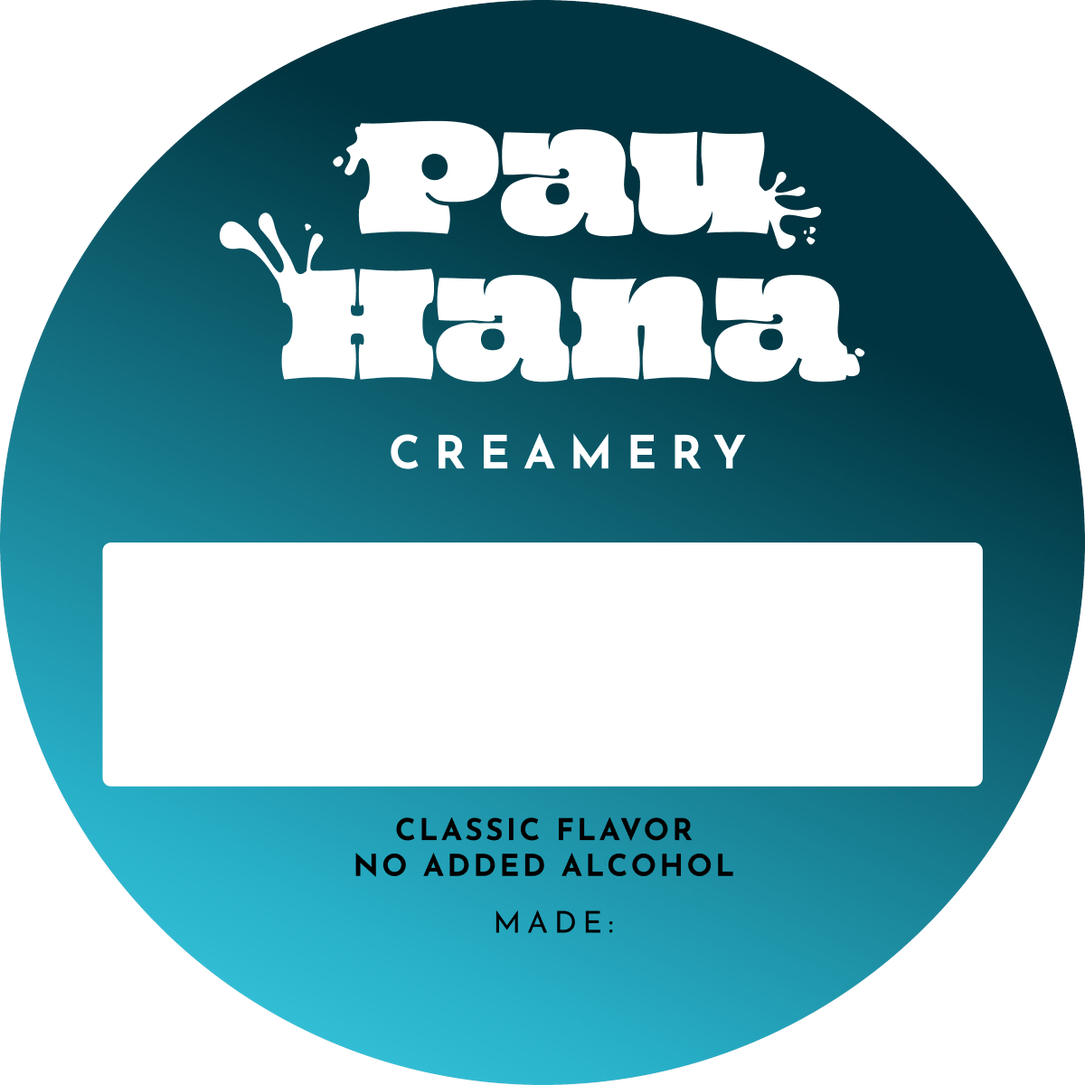
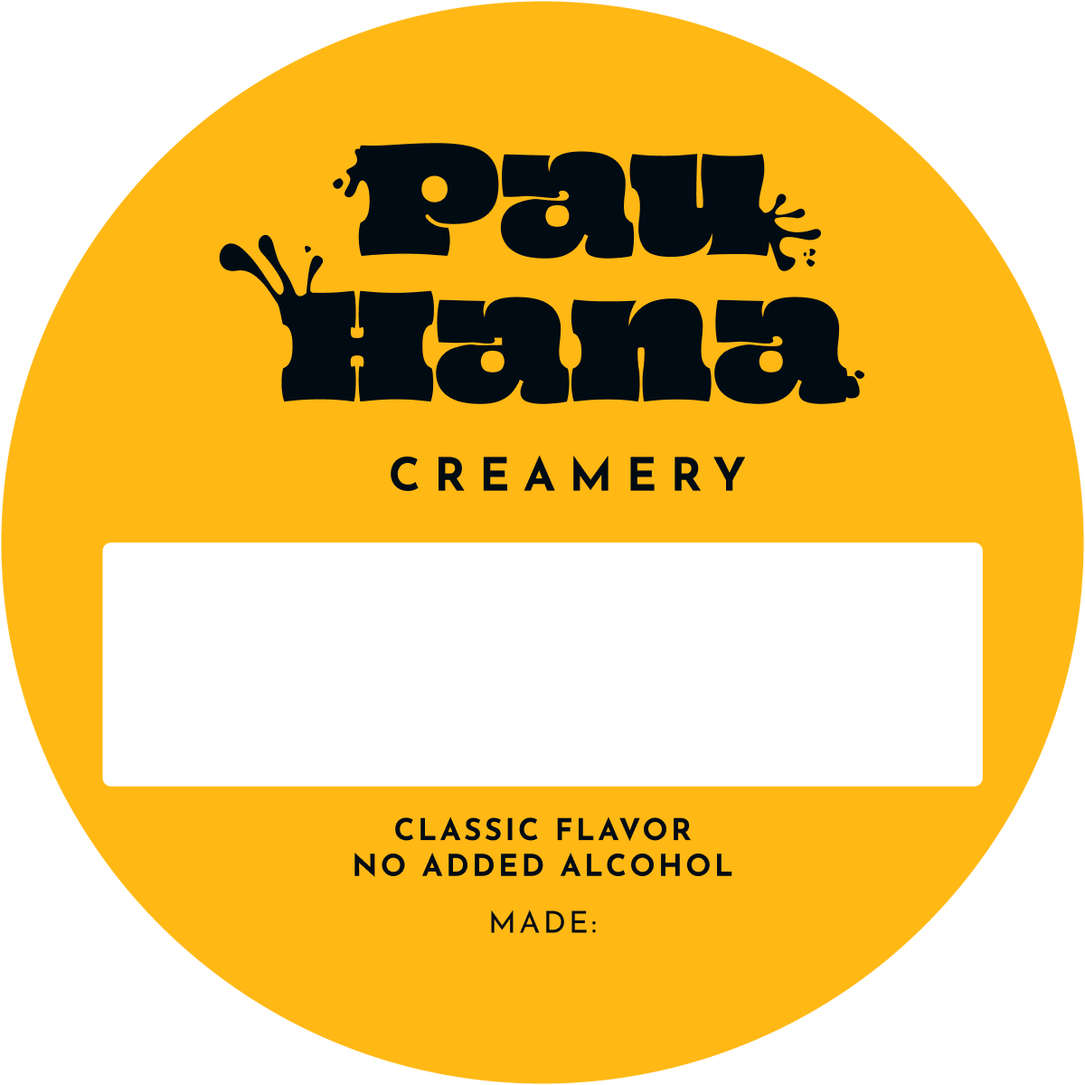
Update styleguide to v1.4 with button patterns and refreshed label assets.

diff --git a/styleguide/index.html b/styleguide/index.html
@@ -21,6 +21,7 @@
       <a href="#color">Color</a>
       <a href="#type">Type</a>
       <a href="#layout">Layout</a>
+      <a href="#buttons">Buttons</a>
       <a href="#labels">Labels</a>
       <a href="#voice">Voice</a>
     </nav>
@@ -30,7 +31,7 @@
     <!-- Cover -->
     <section class="cover" id="top">
       <div class="cover__text">
-        <p class="eyebrow">Style guide, v1.2</p>
+        <p class="eyebrow">Style guide, v1.4</p>
         <h1 class="cover__name"><span class="sr-only">Pau Hana Creamery</span><img src="assets/pau-hana-logo-black.png" alt="" width="1600" height="875"></h1>
         <p class="cover__tag">Handcrafted island ice cream, spiked or classic.</p>
         <p class="cover__sub">Based on Oahu. "Pau hana" is the local phrase for the moment work is done and it is time to unwind. Backup line: <em>Unwind by the scoop.</em></p>
@@ -85,7 +86,7 @@
         </div>
         <div class="rule">
           <h3>Backgrounds</h3>
-          <p>Black logo on sea foam white, scoop yellow, coral blue and sunrise orange (5.9 to 1). White logo on ink, dark sea blue and the two label gradients. Avoid the white logo on flat sunrise orange (3.3 to 1), scoop yellow and coral blue.</p>
+          <p>Black logo on sea foam white, scoop yellow, coral blue and sunrise orange (5.9 to 1). White logo on ink and dark sea blue. Avoid the white logo on flat sunrise orange (3.3 to 1), scoop yellow and coral blue.</p>
         </div>
       </div>
     </section>
@@ -95,31 +96,10 @@
       <header class="section__head">
         <p class="eyebrow">02</p>
         <h2>Color</h2>
-        <p class="lede">Five brand colors plus ink, and two gradients that mark the flavor line on labels. Lead with scoop yellow and ink. Use sunrise orange, dark sea blue and coral blue as accents. Click a swatch to copy its hex code.</p>
+        <p class="lede">Five brand colors plus ink. Lead with scoop yellow and ink. Use sunrise orange, dark sea blue and coral blue as accents. Click a swatch to copy its hex code.</p>
       </header>
 
       <div class="swatches" id="swatches"></div>
-
-      <h3 class="sub">Label gradients</h3>
-      <p class="meta meta--wide">Two diagonal gradients carry the flavor line. Each runs from the top right corner to the lower left, dark to bright. The CSS below is written for a square element, so a round label or icon matches the Figma art. Click a card to copy it.</p>
-      <div class="gradients">
-        <button type="button" class="gradcard" data-copy="linear-gradient(205.3deg, #003440 27.6%, #28B0C8 79.2%, #4FE4F9 110.6%)" aria-label="Copy the classic blue gradient CSS">
-          <span class="gradcard__bar gradcard__bar--classic"></span>
-          <span class="gradcard__body">
-            <span class="gradcard__name">Classic blue</span>
-            <span class="gradcard__stops"><code>#003440</code> <code>#28B0C8</code> <code>#4FE4F9</code></span>
-            <span class="gradcard__use">Classic flavors with no added alcohol. Figma style: Pau Hana Blue Gradient 2.</span>
-          </span>
-        </button>
-        <button type="button" class="gradcard" data-copy="linear-gradient(205.3deg, #4A1101 2.7%, #FE4B00 59.5%, #FFB814 101.5%)" aria-label="Copy the spiked orange gradient CSS">
-          <span class="gradcard__bar gradcard__bar--spiked"></span>
-          <span class="gradcard__body">
-            <span class="gradcard__name">Spiked orange</span>
-            <span class="gradcard__stops"><code>#4A1101</code> <code>#FE4B00</code> <code>#FFB814</code></span>
-            <span class="gradcard__use">Spiked flavors with alcohol. Figma style: Pau Hana Orange Gradient 2.</span>
-          </span>
-        </button>
-      </div>
 
       <h3 class="sub">Contrast pairs</h3>
       <div class="table-wrap">
@@ -140,18 +120,19 @@
         </table>
       </div>
 
-      <h3 class="sub">Contrast on the label gradients</h3>
-      <p class="meta meta--wide">Worst case across each text block on the label art, calculated from the gradient stops.</p>
+      <h3 class="sub">Contrast on the labels and icons</h3>
+      <p class="meta meta--wide">The pint labels and social icons use flat fields, so each pair is a single value.</p>
       <div class="table-wrap">
         <table class="table">
           <thead><tr><th scope="col">Pair</th><th scope="col">Contrast</th><th scope="col">OK for</th></tr></thead>
           <tbody>
-            <tr><td>White wordmark on classic blue</td><td>6.8 to 1 or better</td><td class="ok">All text</td></tr>
-            <tr><td>White CREAMERY on classic blue</td><td>6.1 to 1 or better</td><td class="ok">All text</td></tr>
-            <tr><td>Ink statement and MADE line on classic blue</td><td>4.6 to 1 or better</td><td class="ok">All text</td></tr>
-            <tr><td>White wordmark on spiked orange</td><td>4.4 to 1 or better</td><td class="warn">Large type only. The wordmark qualifies.</td></tr>
-            <tr><td>White CREAMERY on spiked orange</td><td>4.1 to 1 or better</td><td class="warn">Borderline. Keep it at least this size and bold.</td></tr>
-            <tr><td>Ink statement and MADE line on spiked orange</td><td>5.6 to 1 or better</td><td class="ok">All text</td></tr>
+            <tr><td>Ink logo, CREAMERY and statements on scoop yellow (classic)</td><td>11.4 to 1</td><td class="ok">All text</td></tr>
+            <tr><td>White logo and CREAMERY on ink (spiked)</td><td>19.1 to 1</td><td class="ok">All text</td></tr>
+            <tr><td>Sea foam white statement and MADE: on ink (spiked)</td><td>19.1 to 1</td><td class="ok">All text</td></tr>
+            <tr><td>White 21+ on the sunrise orange pill</td><td>3.4 to 1</td><td class="warn">Large type only. The 21+ is about 11.6pt bold.</td></tr>
+            <tr><td>Sunrise orange pill against the ink field</td><td>5.9 to 1</td><td class="ok">Clear shape edge</td></tr>
+            <tr><td>Ink logo and CREAMERY on coral blue (classic icon)</td><td>13.0 to 1</td><td class="ok">All text</td></tr>
+            <tr><td>Scoop yellow logo and white CREAMERY on ink (spiked icon)</td><td>11.4 to 1 and 19.1 to 1</td><td class="ok">All text</td></tr>
           </tbody>
         </table>
       </div>
@@ -186,7 +167,7 @@
         <article class="card card--pad">
           <p class="eyebrow">Everything else</p>
           <p class="specimen specimen--sans">Josefin Sans</p>
-          <p class="meta">Weights 400, 500, 600, 700. Labels use Bold and Regular. Tracking is 0.1em everywhere, for capitals and normal case alike.</p>
+          <p class="meta">Weights 400, 500, 600, 700. Labels use Bold and Regular. Tracking is 0.1em everywhere, for capitals and normal case alike. The one exception is the CREAMERY wordmark under the logo, which keeps its own wide tracking (0.3em on the artwork). Leave it as drawn.</p>
         </article>
         <article class="card card--pad">
           <p class="eyebrow">Display only</p>
@@ -201,10 +182,11 @@
         <table class="table">
           <thead><tr><th scope="col">Element</th><th scope="col">Weight</th><th scope="col">Size</th><th scope="col">Letter spacing</th><th scope="col">Color</th></tr></thead>
           <tbody>
-            <tr><td>CREAMERY</td><td>Bold</td><td>10.6pt</td><td>0.1em</td><td>White</td></tr>
+            <tr><td>CREAMERY (wordmark exception)</td><td>Bold</td><td>10.6pt</td><td>0.3em, separate from every other style</td><td>Ink on classic, white on spiked</td></tr>
             <tr><td>Classic statement</td><td>Bold</td><td>7pt</td><td>0.1em</td><td>Ink</td></tr>
-            <tr><td>Spiked statement</td><td>Bold</td><td>7pt</td><td>0.1em</td><td>Ink</td></tr>
-            <tr><td>MADE:</td><td>Regular</td><td>7pt</td><td>0.1em</td><td>Ink</td></tr>
+            <tr><td>Spiked statement</td><td>Bold</td><td>7pt</td><td>0.1em</td><td>Sea foam white</td></tr>
+            <tr><td>MADE:</td><td>Regular</td><td>7pt</td><td>0.1em</td><td>Ink on classic, sea foam white on spiked</td></tr>
+            <tr><td>21+ pill</td><td>Bold</td><td>11.6pt</td><td>0.1em</td><td>White on sunrise orange</td></tr>
           </tbody>
         </table>
       </div>
@@ -221,7 +203,7 @@
 
       <h3 class="sub">Try it</h3>
       <div class="tester">
-        <label for="tester-input">Type a flavor name</label>
+        <label for="tester-input">Type a headline</label>
         <input id="tester-input" type="text" value="Tequila Orange Creamsicle" maxlength="48" autocomplete="off">
         <p class="tester__out tester__out--oi" id="tester-oi" aria-label="Preview in Oi">Tequila Orange Creamsicle</p>
         <p class="tester__note" id="tester-note"></p>
@@ -229,7 +211,7 @@
 
       <h3 class="sub">Display type rules (Oi)</h3>
       <div class="rules rules--2">
-        <div class="rule"><h3>Use it for</h3><p>Flavor names and big section titles at 36px or larger, no more than two lines.</p></div>
+        <div class="rule"><h3>Use it for</h3><p>Big headlines at 36px or larger on the website, menus and signage, no more than two lines. Not on pint labels: flavor names there are handwritten.</p></div>
         <div class="rule"><h3>Do not use it for</h3><p>Body text, labels, prices, ingredients, allergen notes and above all the alcohol and 21+ notices. Those stay in Josefin Sans.</p></div>
         <div class="rule"><h3>Never set "Pau Hana" in it</h3><p>Next to the modified wordmark, stock Oi reads as a slightly wrong copy. Always use the logo artwork.</p></div>
         <div class="rule"><h3>One weight only</h3><p>On the web, self-host the font file and never let the browser fake a bolder one. Use it sparingly, or the wordmark stops being special.</p></div>
@@ -263,22 +245,91 @@
       </div>
     </section>
 
-    <!-- Labels -->
-    <section class="section" id="labels">
+    <!-- Buttons -->
+    <section class="section" id="buttons">
       <header class="section__head">
         <p class="eyebrow">05</p>
+        <h2>Buttons</h2>
+        <p class="lede">Three buttons: primary for the one main action, secondary for a supporting action, and cancel for backing out. All three are pill shaped, bold capitals at 0.1em, and at least 48px tall so they are easy to tap.</p>
+      </header>
+
+      <h3 class="sub">States</h3>
+      <p class="meta meta--wide">Every button has default, hover, pressed, disabled and keyboard focus states. The grid forces each state so you can see them side by side. Hover and press the live buttons below to see the real thing.</p>
+      <div class="table-wrap">
+        <div class="btn-grid" role="table" aria-label="Button states">
+          <div class="btn-grid__head" role="row"><span role="columnheader"></span><span role="columnheader">Default</span><span role="columnheader">Hover</span><span role="columnheader">Pressed</span><span role="columnheader">Disabled</span><span role="columnheader">Focus</span></div>
+          <div class="btn-grid__row" role="row"><span class="btn-grid__label" role="rowheader">Primary</span>
+            <span role="cell"><button type="button" class="btn btn--primary">Order</button></span>
+            <span role="cell"><button type="button" class="btn btn--primary is-hover" tabindex="-1">Order</button></span>
+            <span role="cell"><button type="button" class="btn btn--primary is-active" tabindex="-1">Order</button></span>
+            <span role="cell"><button type="button" class="btn btn--primary" disabled>Order</button></span>
+            <span role="cell"><button type="button" class="btn btn--primary is-focus" tabindex="-1">Order</button></span></div>
+          <div class="btn-grid__row" role="row"><span class="btn-grid__label" role="rowheader">Secondary</span>
+            <span role="cell"><button type="button" class="btn btn--secondary">Details</button></span>
+            <span role="cell"><button type="button" class="btn btn--secondary is-hover" tabindex="-1">Details</button></span>
+            <span role="cell"><button type="button" class="btn btn--secondary is-active" tabindex="-1">Details</button></span>
+            <span role="cell"><button type="button" class="btn btn--secondary" disabled>Details</button></span>
+            <span role="cell"><button type="button" class="btn btn--secondary is-focus" tabindex="-1">Details</button></span></div>
+          <div class="btn-grid__row" role="row"><span class="btn-grid__label" role="rowheader">Cancel</span>
+            <span role="cell"><button type="button" class="btn btn--cancel">Cancel</button></span>
+            <span role="cell"><button type="button" class="btn btn--cancel is-hover" tabindex="-1">Cancel</button></span>
+            <span role="cell"><button type="button" class="btn btn--cancel is-active" tabindex="-1">Cancel</button></span>
+            <span role="cell"><button type="button" class="btn btn--cancel" disabled>Cancel</button></span>
+            <span role="cell"><button type="button" class="btn btn--cancel is-focus" tabindex="-1">Cancel</button></span></div>
+        </div>
+      </div>
+
+      <h3 class="sub">Try them</h3>
+      <div class="btn-demo">
+        <button type="button" class="btn btn--primary" data-demo="Primary clicked">Order a pint</button>
+        <button type="button" class="btn btn--secondary" data-demo="Secondary clicked">See flavors</button>
+        <button type="button" class="btn btn--cancel" data-demo="Cancel clicked">Cancel</button>
+        <button type="button" class="btn btn--primary" disabled>Sold out</button>
+      </div>
+
+      <div class="rules">
+        <div class="rule"><h3>Primary</h3><p>Scoop yellow with ink text. One per screen or card. Hover flips it to ink with yellow text. Pressed turns it sunrise orange.</p></div>
+        <div class="rule"><h3>Secondary</h3><p>Ink outline, no fill. Hover fills it coral blue. Pressed fills it dark sea blue with sea foam white text.</p></div>
+        <div class="rule"><h3>Cancel</h3><p>Plain ink text with no outline, the quietest of the three. Hover and pressed add a light ink tint. It is never red; the brand has no red.</p></div>
+        <div class="rule"><h3>Disabled</h3><p>Faded to about 40 percent, no hover, not clickable, with a not-allowed cursor. Say why in nearby text, such as "Sold out", so color is never the only clue.</p></div>
+        <div class="rule"><h3>Focus</h3><p>A 3px dark sea blue ring with a 2px gap on every button, for keyboard users. Never remove it.</p></div>
+        <div class="rule"><h3>Use on light backgrounds</h3><p>These are built for sea foam white and scoop yellow pages. On an ink background, set the label to sea foam white and ask for an inverse version first.</p></div>
+      </div>
+
+      <h3 class="sub">Contrast</h3>
+      <div class="table-wrap">
+        <table class="table">
+          <thead><tr><th scope="col">State</th><th scope="col">Pair</th><th scope="col">Contrast</th><th scope="col">OK for</th></tr></thead>
+          <tbody>
+            <tr><td>Primary default</td><td>Ink on scoop yellow</td><td>11.4 to 1</td><td class="ok">All text</td></tr>
+            <tr><td>Primary hover</td><td>Scoop yellow on ink</td><td>11.4 to 1</td><td class="ok">All text</td></tr>
+            <tr><td>Primary pressed</td><td>Ink on sunrise orange</td><td>5.9 to 1</td><td class="ok">All text</td></tr>
+            <tr><td>Secondary default</td><td>Ink on sea foam white</td><td>19.1 to 1</td><td class="ok">All text</td></tr>
+            <tr><td>Secondary hover</td><td>Ink on coral blue</td><td>13.0 to 1</td><td class="ok">All text</td></tr>
+            <tr><td>Secondary pressed</td><td>Sea foam white on dark sea blue</td><td>4.7 to 1</td><td class="ok">All text</td></tr>
+            <tr><td>Cancel</td><td>Ink on sea foam white, with a light ink tint</td><td>16 to 1 or better</td><td class="ok">All text</td></tr>
+            <tr><td>Disabled</td><td>Ink at 40 percent</td><td>Below 4.5 to 1</td><td class="warn">Inactive controls are exempt; explain in text</td></tr>
+          </tbody>
+        </table>
+      </div>
+    </section>
+
+    <!-- Labels -->
+    <section class="section section--tint" id="labels">
+      <header class="section__head">
+        <p class="eyebrow">06</p>
         <h2>Labels and social</h2>
-        <p class="lede">Each pint gets a 3.5 inch round label. A blue gradient marks a classic flavor and an orange gradient marks a spiked one. A white box stays blank so the flavor can be handwritten after the pint is filled.</p>
+        <p class="lede">Each pint gets a 3.5 inch round label. A flat scoop yellow field marks a classic flavor and a flat ink field marks a spiked one, so a spiked pint stands out in the freezer case. The white box stays blank on purpose. Whoever makes the batch in the commercial kitchen handwrites the flavor name in it when the ice cream is made, so the label works for any flavor while recipes are still experimental. Pre-printed flavor names can come later, once the menu settles.</p>
       </header>
 
       <div class="grid grid--2">
         <figure class="card">
-          <div class="frame frame--grey frame--square"><img class="round" src="assets/label-classic.png" alt="Classic pint label with a blue gradient, white logo, a blank white flavor box, and the text Classic flavor, no added alcohol, above a Made line" loading="lazy"></div>
-          <figcaption><strong>Classic</strong><span>"CLASSIC FLAVOR, NO ADDED ALCOHOL"</span></figcaption>
+          <div class="frame frame--grey frame--square"><img class="round" src="assets/label-classic.png" alt="Classic pint label on scoop yellow with an ink logo, a blank white flavor box, and the text Classic flavor, no added alcohol, above a Made line" loading="lazy"></div>
+          <figcaption><strong>Classic</strong><span>Scoop yellow field. "CLASSIC FLAVOR, NO ADDED ALCOHOL"</span></figcaption>
         </figure>
         <figure class="card">
-          <div class="frame frame--grey frame--square"><img class="round" src="assets/label-spiked.png" alt="Spiked pint label with an orange gradient, white logo, a blank white flavor box, and the text Spiked flavor, 4 to 5 percent ABV, 21 plus only, contains alcohol, above a Made line" loading="lazy"></div>
-          <figcaption><strong>Spiked</strong><span>"SPIKED FLAVOR, 4-5% ABV, 21+ ONLY, CONTAINS ALCOHOL"</span></figcaption>
+          <div class="frame frame--grey frame--square"><img class="round" src="assets/label-spiked.png" alt="Spiked pint label on ink with a white logo, an orange 21 plus pill, a blank white flavor box, the text Spiked flavor, 4 to 5 percent ABV, 21 plus only, contains alcohol, and a Made line with a small white date box" loading="lazy"></div>
+          <figcaption><strong>Spiked</strong><span>Ink field, orange 21+ pill. "SPIKED FLAVOR, 4-5% ABV, 21+ ONLY, CONTAINS ALCOHOL"</span></figcaption>
         </figure>
       </div>
 
@@ -289,15 +340,15 @@
         </div>
         <div class="rule">
           <h3>Material</h3>
-          <p>Waterproof matte film, full color, with a freezer-rated permanent adhesive. Apply to room-temperature lids, because labels stick poorly once the container is cold. Use permanent marker in the flavor box.</p>
+          <p>Waterproof matte film, full color, with a freezer-rated permanent adhesive. Apply to room-temperature lids, because labels stick poorly once the container is cold. Use permanent marker in the flavor box and the date box.</p>
         </div>
         <div class="rule">
           <h3>Layout, top to bottom</h3>
-          <p>Logo, CREAMERY, blank white flavor box, alcohol statement, then a MADE: line. The date is written in by hand, so no space is reserved.</p>
+          <p>Logo, CREAMERY, blank white flavor box (the flavor name is handwritten here, never printed in Oi), alcohol statement, then a MADE: line. The classic label leaves the date to be written on the yellow. The spiked label adds a small white box under MADE: for it, and an orange 21+ pill on the corner of the flavor box.</p>
         </div>
         <div class="rule">
           <h3>Text color</h3>
-          <p>The logo and CREAMERY are white. The alcohol statement and MADE: line are ink, so they stay readable on the bright end of each gradient.</p>
+          <p>Classic: ink logo, CREAMERY, statement and MADE: line on scoop yellow. Spiked: white logo and CREAMERY, sea foam white statement and MADE: line on ink. The 21+ is white on sunrise orange.</p>
         </div>
         <div class="rule rule--alert">
           <h3>Alcohol statement is required</h3>
@@ -305,7 +356,7 @@
         </div>
       </div>
 
-      <h3 class="sub">Monochrome labels</h3>
+      <h3 class="sub">Monochrome stickers</h3>
       <div class="grid grid--2">
         <figure class="card">
           <div class="frame frame--grey frame--square"><img class="round" src="assets/label-black.png" alt="Round label with a black field, white logo, the tagline and the website" loading="lazy"></div>
@@ -317,7 +368,7 @@
         </figure>
       </div>
       <ul class="bullets bullets--wide">
-        <li>These carry the tagline and website. The gradient flavor labels do not.</li>
+        <li>These carry the tagline and website. The color pint labels do not.</li>
         <li>The inner ring is a hairline. Set it to at least 0.5pt for print.</li>
         <li>Check the small, widely spaced website line at actual size.</li>
       </ul>
@@ -325,24 +376,24 @@
       <h3 class="sub">Social icons</h3>
       <div class="grid grid--2">
         <figure class="card">
-          <div class="frame frame--grey frame--square"><img class="round" src="assets/social-icon-classic.png" alt="Round social icon, white logo and CREAMERY on the blue gradient" loading="lazy"></div>
-          <figcaption><strong>Classic</strong><span>White logo on the blue gradient.</span></figcaption>
+          <div class="frame frame--grey frame--square"><img class="round" src="assets/social-icon-classic.png" alt="Round social icon, ink logo and CREAMERY on coral blue" loading="lazy"></div>
+          <figcaption><strong>Classic</strong><span>Ink logo and CREAMERY on coral blue.</span></figcaption>
         </figure>
         <figure class="card">
-          <div class="frame frame--grey frame--square"><img class="round" src="assets/social-icon-spiked.png" alt="Round social icon, white logo and CREAMERY on the orange gradient" loading="lazy"></div>
-          <figcaption><strong>Spiked</strong><span>White logo on the orange gradient.</span></figcaption>
+          <div class="frame frame--grey frame--square"><img class="round" src="assets/social-icon-spiked.png" alt="Round social icon, scoop yellow logo and white CREAMERY on ink" loading="lazy"></div>
+          <figcaption><strong>Spiked</strong><span>Scoop yellow logo and white CREAMERY on ink.</span></figcaption>
         </figure>
       </div>
       <ul class="bullets bullets--wide">
-        <li>Screens only. Match the gradient to the post: blue for classic, orange for spiked.</li>
+        <li>Screens only. Match the icon to the post: coral blue for classic, ink for spiked.</li>
         <li>Leave margin around the left splash, since platforms crop to a circle.</li>
       </ul>
     </section>
 
     <!-- Voice -->
-    <section class="section section--tint" id="voice">
+    <section class="section" id="voice">
       <header class="section__head">
-        <p class="eyebrow">06</p>
+        <p class="eyebrow">07</p>
         <h2>Voice</h2>
       </header>
       <div class="rules rules--2">
@@ -356,7 +407,7 @@
   </main>
 
   <footer class="footer">
-    <p>Pau Hana Creamery. Style guide v1.2, updated November 12, 2026. Josefin Sans and Oi are Google Fonts under the SIL Open Font License.</p>
+    <p>Pau Hana Creamery. Style guide v1.4, updated November 14, 2026. Josefin Sans and Oi are Google Fonts under the SIL Open Font License.</p>
   </footer>
 
   <div class="toast" id="toast" role="status" aria-live="polite"></div>

diff --git a/styleguide/styles.css b/styleguide/styles.css
@@ -5,9 +5,7 @@
   --coral-blue: #4FE4F9;
   --sea-foam-white: #F9FBFC;
   --ink: #010B13;
-  --gradient-classic: linear-gradient(205.3deg, #003440 27.6%, #28B0C8 79.2%, #4FE4F9 110.6%);
-  --gradient-spiked: linear-gradient(205.3deg, #4A1101 2.7%, #FE4B00 59.5%, #FFB814 101.5%);
-
+    
   --space-2: 8px;
   --space-4: 16px;
   --space-6: 24px;
@@ -229,20 +227,49 @@ select, input[type="text"] { font: inherit; font-size: 16px; padding: 10px 12px;
   .swatch, .toast { transition: none; }
 }
 
-/* Gradients, label pairs */
+/* Label layout */
 .meta--wide { margin-bottom: var(--space-4); padding-right: clamp(0px, 30%, 380px); }
-.gradients { display: grid; gap: var(--space-6); align-items: start; grid-template-columns: repeat(auto-fit, minmax(300px, 1fr)); }
-.gradcard { all: unset; box-sizing: border-box; cursor: pointer; display: block; width: 100%; background: #fff; border: 1px solid var(--line); border-radius: var(--radius-lg); overflow: hidden; transition: transform 0.15s ease; }
-.gradcard:hover { transform: translateY(-3px); }
-.gradcard:focus-visible { outline: 3px solid var(--ink); outline-offset: 3px; }
-.gradcard__bar { display: block; aspect-ratio: 2 / 1; }
-.gradcard__bar--classic { background: var(--gradient-classic); }
-.gradcard__bar--spiked { background: var(--gradient-spiked); }
-.gradcard__body { display: grid; gap: 6px; padding: var(--space-4) var(--space-6) var(--space-6); font-size: 15px; line-height: 22px; }
-.gradcard__name { font-weight: 700; font-size: 18px; line-height: 24px; }
-.gradcard__stops code { margin-right: 4px; }
 .frame--square { aspect-ratio: 1 / 1; }
 .frame--square img.round { max-width: 86%; }
 .section .grid + .rules { margin-top: var(--space-6); }
 .bullets--wide { margin-top: var(--space-4); padding-right: clamp(0px, 30%, 380px); }
 .rules--labels .rule--alert { grid-column: 1 / -1; }
+
+/* Buttons */
+.btn {
+  all: unset; box-sizing: border-box; cursor: pointer;
+  display: inline-flex; align-items: center; justify-content: center; gap: 8px;
+  min-height: 48px; min-width: 112px; padding: 10px 28px;
+  border: 2px solid transparent; border-radius: var(--radius-pill);
+  font-family: var(--font-sans); font-size: 15px; line-height: 20px; font-weight: 700;
+  letter-spacing: 0.1em; text-transform: uppercase; text-align: center; white-space: nowrap;
+  transition: background-color 120ms ease, color 120ms ease, border-color 120ms ease, transform 120ms ease;
+}
+.btn:focus-visible, .btn.is-focus { outline: 3px solid var(--dark-sea-blue); outline-offset: 2px; }
+.btn:disabled, .btn[aria-disabled="true"] { cursor: not-allowed; transform: none; }
+
+.btn--primary { background: var(--scoop-yellow); border-color: var(--scoop-yellow); color: var(--ink); }
+.btn--primary:hover:not(:disabled), .btn--primary.is-hover { background: var(--ink); border-color: var(--ink); color: var(--scoop-yellow); }
+.btn--primary:active:not(:disabled), .btn--primary.is-active { background: var(--sunrise-orange); border-color: var(--sunrise-orange); color: var(--ink); transform: translateY(1px); }
+.btn--primary:disabled { background: rgba(1, 11, 19, 0.1); border-color: rgba(1, 11, 19, 0.1); color: rgba(1, 11, 19, 0.4); }
+
+.btn--secondary { background: transparent; border-color: var(--ink); color: var(--ink); }
+.btn--secondary:hover:not(:disabled), .btn--secondary.is-hover { background: var(--coral-blue); border-color: var(--ink); color: var(--ink); }
+.btn--secondary:active:not(:disabled), .btn--secondary.is-active { background: var(--dark-sea-blue); border-color: var(--dark-sea-blue); color: var(--sea-foam-white); transform: translateY(1px); }
+.btn--secondary:disabled { background: transparent; border-color: rgba(1, 11, 19, 0.25); color: rgba(1, 11, 19, 0.4); }
+
+.btn--cancel { background: transparent; border-color: transparent; color: var(--ink); }
+.btn--cancel:hover:not(:disabled), .btn--cancel.is-hover { background: rgba(1, 11, 19, 0.08); text-decoration: underline; text-underline-offset: 4px; }
+.btn--cancel:active:not(:disabled), .btn--cancel.is-active { background: rgba(1, 11, 19, 0.16); text-decoration: underline; text-underline-offset: 4px; transform: translateY(1px); }
+.btn--cancel:disabled { color: rgba(1, 11, 19, 0.4); }
+
+.btn-grid { display: grid; gap: var(--space-4); min-width: 760px; padding: var(--space-4) var(--space-6); }
+.btn-grid__head, .btn-grid__row { display: grid; grid-template-columns: 110px repeat(5, 1fr); gap: var(--space-4); align-items: center; }
+.btn-grid__head { font-size: 13px; letter-spacing: 0.1em; text-transform: uppercase; font-weight: 600; }
+.btn-grid__label { font-weight: 700; }
+.btn-grid .btn { min-width: 0; width: 100%; padding-left: 12px; padding-right: 12px; }
+.btn-demo { display: flex; flex-wrap: wrap; gap: var(--space-4); margin-bottom: var(--space-10); }
+@media (prefers-reduced-motion: reduce) { .btn { transition: none; } }
+
+/* Keep direct-child notes and bullets centered in the section column */
+.section > .meta, .section > .bullets { margin-left: auto; margin-right: auto; }

diff --git a/styleguide/script.js b/styleguide/script.js
@@ -85,16 +85,11 @@
     swatchWrap.appendChild(btn);
   });
 
-  /* Copy CSS from gradient cards */
-  Array.prototype.slice.call(document.querySelectorAll("[data-copy]")).forEach(function (el) {
-    el.addEventListener("click", function () {
-      var v = el.getAttribute("data-copy");
-      copyText(v).then(
-        function () { showToast("Copied gradient CSS"); },
-        function () { showToast("Could not copy. Select the code by hand."); }
-      );
-    });
+  /* Button demo */
+  Array.prototype.slice.call(document.querySelectorAll("[data-demo]")).forEach(function (el) {
+    el.addEventListener("click", function () { showToast(el.getAttribute("data-demo")); });
   });
+
 
   /* Contrast checker */
   var fg = document.getElementById("fg");
